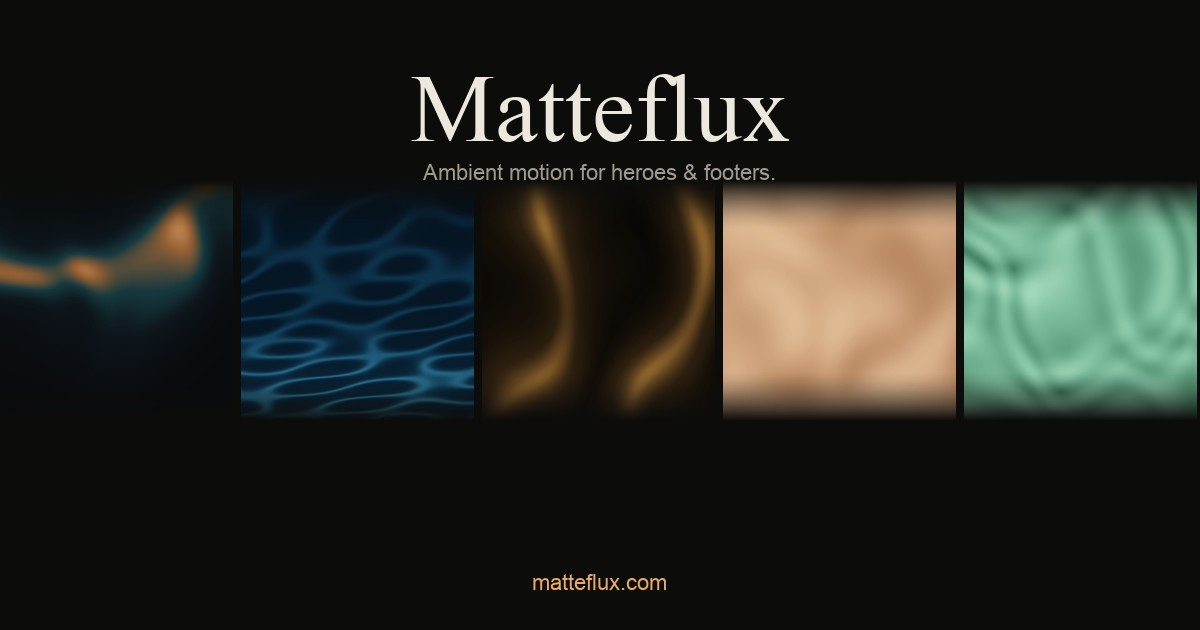
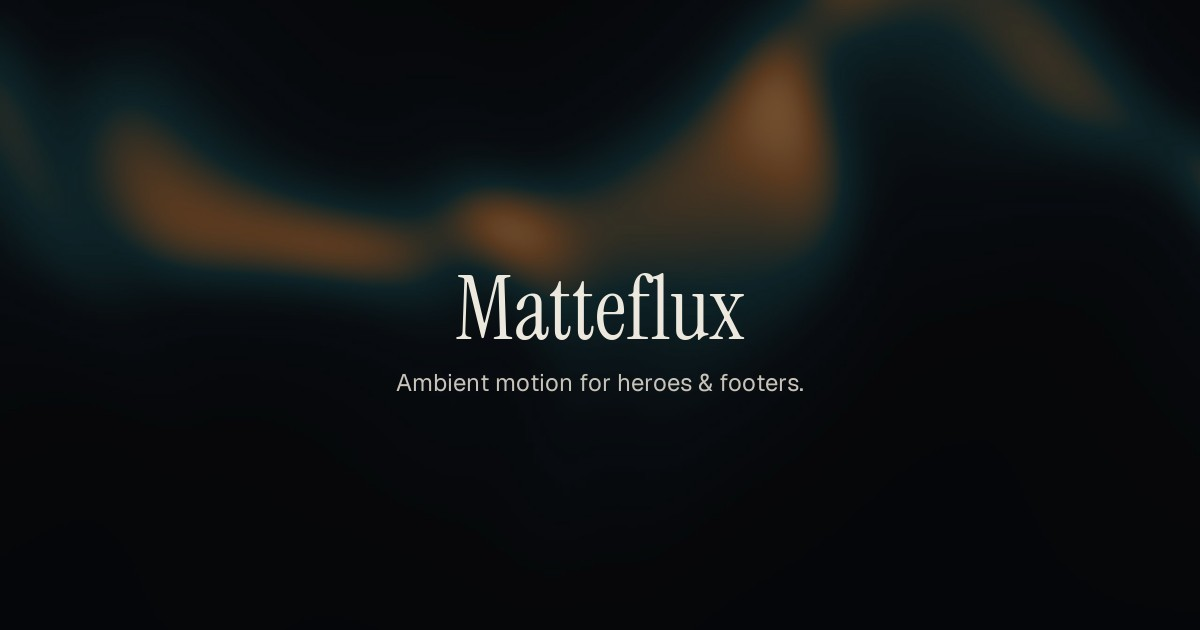
Simplify README, update OG image, fix spacing, add GitHub Pages deploy
- README: rewrite — concise, no emoji headers
- OG image: ember-aurora poster background with centered title
- CSS: lead text 16px, tech details table gap, free CTA spacing
- GitHub Actions workflow for Pages deploy
- CNAME for matteflux.com custom domain

diff --git a/site/src/assets/site.css b/site/src/assets/site.css
@@ -52,7 +52,7 @@ ul, ol { margin: 0; padding: 0; }
 .h1 { font-family: var(--serif); font-size: clamp(44px, 6vw, 88px); line-height: 1; letter-spacing: -0.02em; }
 .h1-num { font-size: 0.32em; vertical-align: 0.9em; color: var(--muted); letter-spacing: 0; }
 .h2 { font-family: var(--serif); font-size: clamp(36px, 4.2vw, 56px); line-height: 1.04; letter-spacing: -0.015em; }
-.lead { font-size: clamp(16px, 1.3vw, 18px); color: var(--muted); max-width: 34em; }
+.lead { font-size: 16px; color: var(--muted); max-width: 34em; }
 .kicker { font-family: var(--mono); font-size: 12px; letter-spacing: 0.12em; text-transform: uppercase; color: var(--muted); }
 .kicker a { text-decoration: none; }
 .mono { font-family: var(--mono); }
@@ -67,7 +67,7 @@ ul, ol { margin: 0; padding: 0; }
 .section { padding-block: var(--section); }
 .section--tight { padding-block: calc(var(--section) * 0.6); }
 .section--line { border-bottom: 1px solid var(--line); }
-.stack > * + * { margin-top: 24px; }
+.stack > * + * { margin-top: 32px; }
 .stack-lg > * + * { margin-top: clamp(36px, 4vw, 56px); }
 .section-head { display: flex; justify-content: space-between; align-items: flex-end; gap: 24px 48px; flex-wrap: wrap; }
 .section-head .kicker { margin-bottom: 14px; }
@@ -276,6 +276,7 @@ ul, ol { margin: 0; padding: 0; }
 /* ------------------------------------------------------------- free */
 .free { display: grid; grid-template-columns: minmax(0, 1fr) minmax(0, 1fr); gap: 32px 64px; align-items: center; padding: clamp(28px, 5vw, 56px); border-radius: 20px; background: #141412; border: 1px solid var(--line); }
 .free__copy > * + * { margin-top: 16px; }
+.free__cta > * + * { margin-top: 20px; }
 .free__form { display: flex; flex-direction: column; gap: 12px; }
 .free__form label { font-size: 14px; color: #d9d3c7; }
 .free__row { display: flex; gap: 8px; flex-wrap: wrap; }
@@ -303,7 +304,7 @@ ul, ol { margin: 0; padding: 0; }
 .table thead th { font-family: var(--mono); font-size: 12px; font-weight: 400; letter-spacing: 0.06em; text-transform: uppercase; color: var(--muted); }
 .table tbody th { font-weight: 500; }
 .table tr:last-child > * { border-bottom: 0; }
-.specs { margin: 0; display: grid; grid-template-columns: repeat(2, minmax(0, 1fr)); gap: 0; border: 1px solid var(--line); border-radius: 12px; overflow: hidden; }
+.specs { display: grid; grid-template-columns: repeat(2, minmax(0, 1fr)); gap: 0; border: 1px solid var(--line); border-radius: 12px; overflow: hidden; }
 .specs div { display: flex; justify-content: space-between; gap: 16px; padding: 14px 18px; border-bottom: 1px solid var(--line); font-size: 15px; }
 .specs div:nth-last-child(-n+2) { border-bottom: 0; }
 .specs div:nth-child(odd) { border-right: 1px solid var(--line); }

diff --git a/site/src/assets/site.js b/site/src/assets/site.js
@@ -17,6 +17,7 @@
     JSON.parse($("#mf-sets").textContent).forEach(function (s) { SETS[s.slug] = s; });
   } catch (e) { /* no data: interactive parts stay static */ }
 
+
   function setSources(video, base) {
     if (video.getAttribute("data-base") === base) return false;
     video.setAttribute("data-base", base);

diff --git a/README.md b/README.md
@@ -1,92 +1,48 @@
 # Matteflux
 
-> Ambient motion for heroes & footers.
+Ambient motion for heroes & footers.
 
-Matteflux is a collection of **free, production-ready video components** for web designers and developers. Each set includes perfectly-looped hero and footer videos with matching visual themes, optimized for web performance.
+Free, production-ready video backgrounds for websites. Each set is a matching hero and footer — same visual family, ready-made code, tiny files.
 
-Visit **[matteflux.com](https://matteflux.com)** to browse, preview, and download sets.
-
----
-
-## ✨ What's Included
-
-- **9 video sets** across two collections
-  - **Dark Ambient** (6 sets): Ember Aurora, Night Fog, Deep Water, Silk, Violet Tide, Nebula
-  - **Earthen** (3 sets): Mist, Linen, Ripple
-  - Hero videos: 2560×1440 (desktop) + 1080×1920 (mobile)
-  - Footer videos: 2560×854 (desktop) + 1080×1350 (mobile)
-- **Multiple formats**: MP4 + WebM, ultra-compressed for performance
-- **Ready-to-use code**: HTML/CSS, Framer, Webflow templates
-- **Accessibility-tested**: Validated overlay opacity for text contrast; `prefers-reduced-motion` support
-- **Zero AI artifacts**: Procedurally generated, guaranteed loop seams
+**[matteflux.com](https://matteflux.com)**
 
 ---
 
-## 🚀 Getting Started
+## Sets
 
-### Download
-1. Visit [matteflux.com](https://matteflux.com)
-2. Browse and preview sets
-3. Click to download (ZIP packages include all formats, templates, and documentation)
+**Dark Ambient** — Ember Aurora, Night Fog, Deep Water, Silk, Violet Tide, Nebula
 
-### Install
-Each set includes quick-start code for:
-- **HTML/CSS**: Copy-paste into your site
-- **Framer**: Drop in the component
-- **Webflow**: Use embed instructions
+**Earthen** — Mist, Linen, Ripple
 
-See the set's README for details and recommended overlay opacity.
+Each set includes:
+- Hero (2560×1440 desktop, 1080×1920 mobile)
+- Footer (2560×854 desktop, 1080×1350 mobile)
+- MP4 + WebM, poster images
+- Code for HTML/CSS, Framer, Webflow
 
----
+## Quick start
 
-## 📂 Project Structure
+1. Download a set from [matteflux.com](https://matteflux.com)
+2. Unzip, copy the files into your project
+3. Paste the code from the set's `code/` folder
 
-- **`site/`** — The Matteflux website (matteflux.com)
-  - `src/pages/` — Page templates (home, sets catalog, documentation)
-  - `src/data/` — Set definitions (`sets.json`) and FAQ
-  - `src/assets/mf/` — Matteflux component code (CSS, JavaScript)
-  - `public/` — Static assets (videos, posters, fonts)
-  - `build.mjs` — Dependency-free Node build script
-  - `serve.mjs` — Dev server
-- **`production/templates/`** — Code templates for each platform (HTML/CSS, Framer, Webflow)
+Each set's README has overlay values and setup notes.
 
----
+## Development
 
-## 💻 Development
-
-### Prerequisites
-- Node.js 18+
-
-### Build & Serve
 ```bash
 cd site
-node build.mjs          # Build to dist/
-node serve.mjs          # Serve at localhost:4321
-node tools/test.mjs     # Run tests (Playwright)
+node build.mjs        # Build to dist/
+node serve.mjs         # localhost:4321
+node tools/test.mjs    # Playwright tests
 ```
 
-### Contributing
+## License
 
-**Site & Docs**: Bug reports, template improvements, and documentation updates are welcome. Please open an issue or pull request.
+Videos and posters: [CC0 1.0](https://creativecommons.org/publicdomain/zero/1.0/) — public domain, use anywhere.
 
-**Video Sets**: New set ideas? Open an issue with concept sketches or references. Matteflux curates the collection to maintain visual cohesion and quality.
-
----
-
-## 📜 License
-
-All video sets are licensed under **[CC0 1.0 Universal](https://creativecommons.org/publicdomain/zero/1.0/)** (public domain). Use freely in personal and commercial projects, no attribution required.
-
-Site code is licensed under **[MIT](LICENSE)**.
+Site code: [MIT](LICENSE).
 
 ---
 
-## 🌐 Links
-
-- Website: [matteflux.com](https://matteflux.com)
-- Docs: [matteflux.com/docs](https://matteflux.com/docs)
-- FAQ: [matteflux.com/faq](https://matteflux.com/faq)
-
----
-
-**Made by [Mert](https://github.com/mertJF) · Hosted on [Cloudflare Pages](https://pages.cloudflare.com/)**
+Made by [Mert](https://github.com/mertJF)
